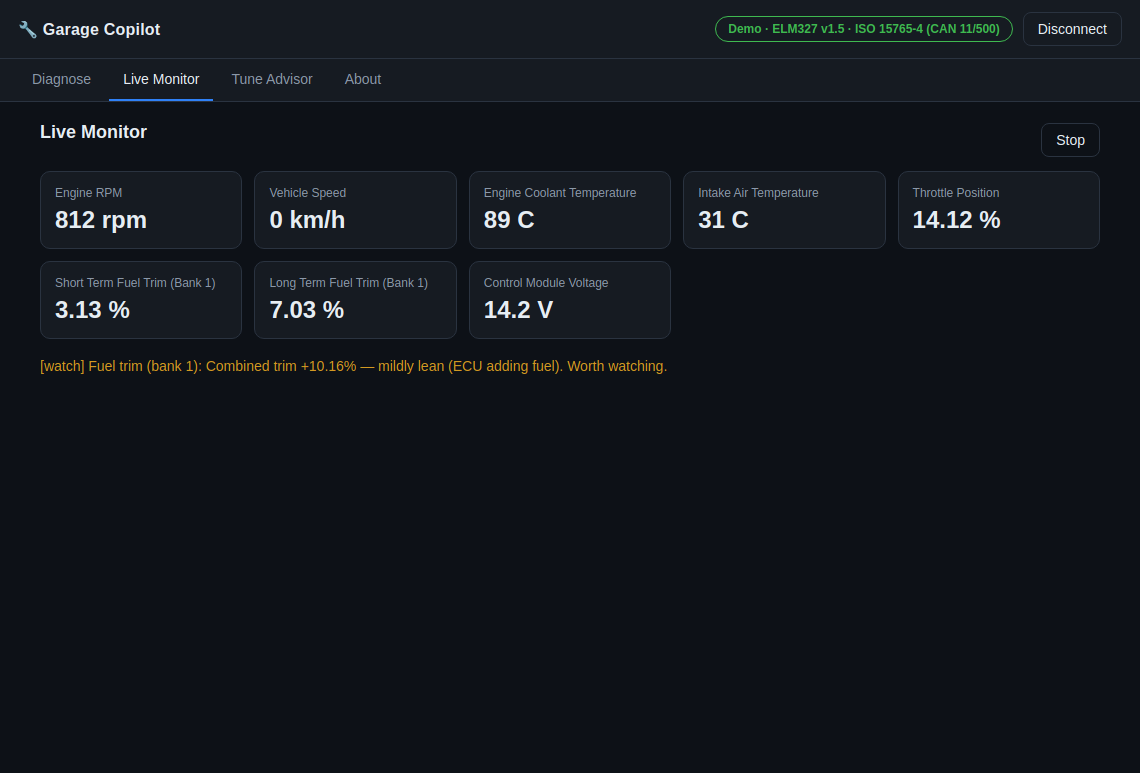
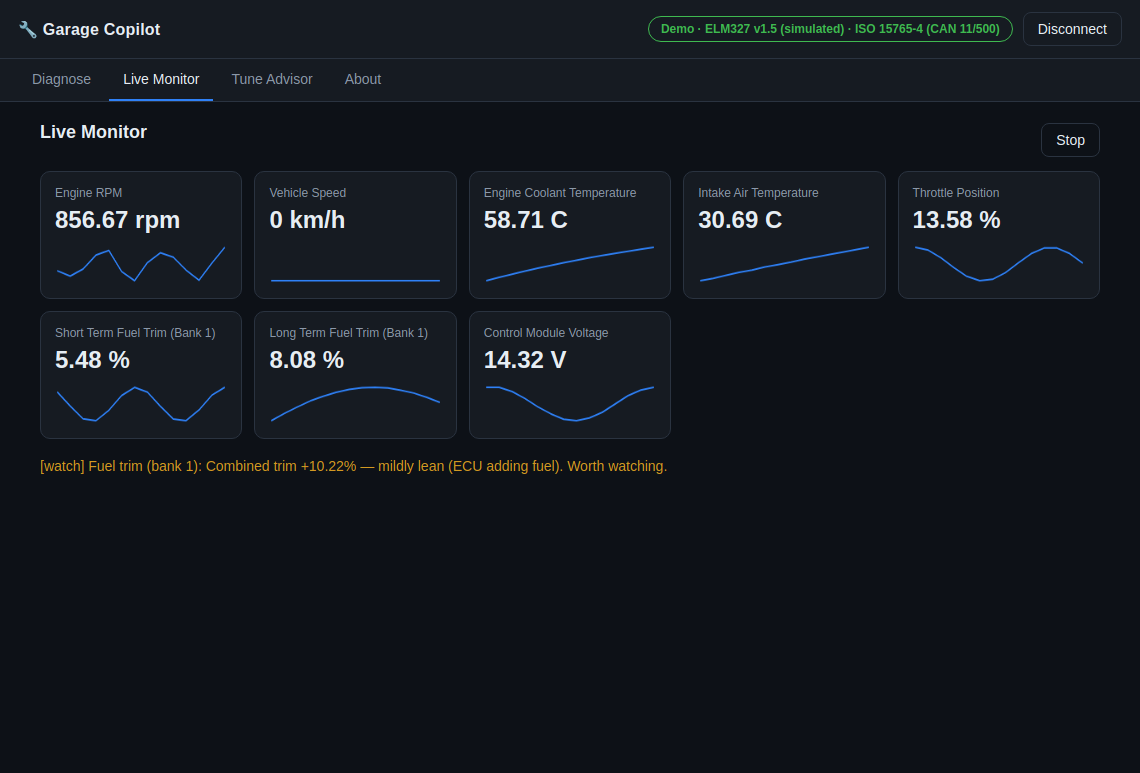
Demo simulator with live sparklines, plus save-report
Engine: add SimulatedObdReader — a time-varying ObdReader (idle RPM wander,
coolant warm-up curve, jittering fuel trims) matching the demo vehicle's DTCs,
readiness, and VIN, with tests. It makes the live monitor demoable with no
hardware and is a handy dev fixture.

Desktop:
- Demo mode now uses the simulator, so the Live Monitor actually moves.
- Add per-parameter canvas sparklines showing recent history.
- Add "Save report (.md)" alongside "Copy report".
- Connection now typed against the ObdReader interface (engine, simulator, or
  Web Serial all flow through the same path).
- Refresh screenshots; update smoke assertions (VIN present; RPM by label).

diff --git a/apps/garage-copilot-desktop/src/renderer/app.ts b/apps/garage-copilot-desktop/src/renderer/app.ts
@@ -9,15 +9,14 @@
 
 import {
   Elm327Client,
-  ReplayTransport,
-  DEMO_VEHICLE,
+  SimulatedObdReader,
   runDiagnosticSession,
   buildReport,
   analyzeTrends,
   assessFinalDriveChange,
   assessInjectorsForTarget,
   assessAddedElectricalLoad,
-  type ObdTransport,
+  type ObdReader,
   type Assessment,
   type TimedSample
 } from "./core.js";
@@ -36,12 +35,14 @@ const show = (el: HTMLElement, visible: boolean): void => {
 };
 
 // ---- connection state -------------------------------------------------------
-type Connection = { client: Elm327Client; label: string; demo: boolean };
+type Connection = { client: ObdReader; label: string; demo: boolean };
 let conn: Connection | null = null;
 let liveTimer: number | null = null;
 let liveSamples: TimedSample[] = [];
 const liveCards = new Map<string, HTMLElement>();
+const liveHistory = new Map<string, number[]>();
 const LIVE_PIDS = ["0C", "0D", "05", "0F", "11", "06", "07", "42"];
+const SPARK_MAX = 60;
 
 // ---- status / connection ----------------------------------------------------
 function setStatus(text: string, state: "off" | "connecting" | "on"): void {
@@ -58,7 +59,7 @@ function setConnectedUi(connected: boolean): void {
   $<HTMLButtonElement>("btn-live-start").disabled = !connected;
 }
 
-async function activate(client: Elm327Client, label: string, demo: boolean): Promise<void> {
+async function activate(client: ObdReader, label: string, demo: boolean): Promise<void> {
   setStatus("Initializing…", "connecting");
   try {
     const id = await client.initialize();
@@ -92,8 +93,8 @@ async function connectSerial(): Promise<void> {
 }
 
 async function connectDemo(): Promise<void> {
-  const transport: ObdTransport = new ReplayTransport(DEMO_VEHICLE);
-  await activate(new Elm327Client(transport), "Demo (replay)", true);
+  // A simulator with time-varying idle data, so the live monitor actually moves.
+  await activate(new SimulatedObdReader(), "Demo (simulated)", true);
 }
 
 async function disconnect(): Promise<void> {
@@ -208,11 +209,29 @@ function renderReport(
   }
   out.appendChild(cav);
 
+  const actions = document.createElement("div");
+  actions.className = "report-actions";
+
   const copy = document.createElement("button");
   copy.className = "ghost";
   copy.textContent = "Copy report";
   copy.addEventListener("click", () => void navigator.clipboard?.writeText(fullText));
-  out.appendChild(copy);
+
+  const save = document.createElement("button");
+  save.className = "ghost";
+  save.textContent = "Save report (.md)";
+  save.addEventListener("click", () => {
+    const blob = new Blob([fullText], { type: "text/markdown" });
+    const url = URL.createObjectURL(blob);
+    const a = document.createElement("a");
+    a.href = url;
+    a.download = "garage-copilot-report.md";
+    a.click();
+    URL.revokeObjectURL(url);
+  });
+
+  actions.append(copy, save);
+  out.appendChild(actions);
 }
 
 function lineClass(line: string): string {
@@ -226,6 +245,7 @@ function startLive(): void {
   if (!conn || liveTimer !== null) return;
   liveSamples = [];
   liveCards.clear();
+  liveHistory.clear();
   $("live-cards").replaceChildren();
   $("live-flags").replaceChildren();
   show($("btn-live-start"), false);
@@ -268,12 +288,45 @@ function updateCard(pid: string, label: string, value: number, unit?: string): v
     l.textContent = label;
     const v = document.createElement("div");
     v.className = "live-value";
-    card.append(l, v);
+    const canvas = document.createElement("canvas");
+    canvas.className = "spark";
+    canvas.width = 300;
+    canvas.height = 48;
+    card.append(l, v, canvas);
     liveCards.set(pid, card);
     $("live-cards").appendChild(card);
   }
-  const v = card.querySelector(".live-value") as HTMLElement;
-  v.textContent = `${value}${unit ? ` ${unit}` : ""}`;
+  (card.querySelector(".live-value") as HTMLElement).textContent = `${value}${unit ? ` ${unit}` : ""}`;
+
+  const hist = liveHistory.get(pid) ?? [];
+  hist.push(value);
+  if (hist.length > SPARK_MAX) hist.shift();
+  liveHistory.set(pid, hist);
+  drawSparkline(card.querySelector(".spark") as HTMLCanvasElement, hist);
+}
+
+function drawSparkline(canvas: HTMLCanvasElement, values: number[]): void {
+  const ctx = canvas.getContext("2d");
+  if (!ctx) return;
+  const w = canvas.width;
+  const h = canvas.height;
+  const pad = 4;
+  ctx.clearRect(0, 0, w, h);
+  if (values.length < 2) return;
+  const min = Math.min(...values);
+  const max = Math.max(...values);
+  const range = max - min || 1;
+  ctx.beginPath();
+  ctx.lineWidth = 2;
+  ctx.strokeStyle = "#2f81f7";
+  ctx.lineJoin = "round";
+  values.forEach((v, i) => {
+    const x = pad + (i / (values.length - 1)) * (w - 2 * pad);
+    const y = h - pad - ((v - min) / range) * (h - 2 * pad);
+    if (i === 0) ctx.moveTo(x, y);
+    else ctx.lineTo(x, y);
+  });
+  ctx.stroke();
 }
 
 function renderFlags(): void {

diff --git a/apps/garage-copilot/src/obd/simulator.ts b/apps/garage-copilot/src/obd/simulator.ts
@@ -1,0 +1,102 @@
+/**
+ * A simulated {@link ObdReader} for demos and development.
+ *
+ * Unlike the replay transport (which returns fixed canned frames to exercise the
+ * real driver), this produces time-varying live data — idle RPM wander, a
+ * coolant warm-up curve, jittering fuel trims — so the live monitor and its
+ * trend analysis have something realistic to chew on with no hardware. The DTCs,
+ * readiness, and VIN match the canned demo vehicle so a scan tells a consistent
+ * story. Values are illustrative only.
+ */
+
+import type { ObdIdentity, ObdReader } from "./reader.js";
+import type { DecodedPid } from "./pid-formulas.js";
+import { PID_FORMULAS } from "./pid-formulas.js";
+import { decodeMonitorStatus, type MonitorStatus } from "./dtc-decode.js";
+
+const round2 = (n: number): number => Math.round(n * 100) / 100;
+
+export type SimulatorOptions = {
+  /** Clock injection (default Date.now) for deterministic tests. */
+  now?: () => number;
+};
+
+export class SimulatedObdReader implements ObdReader {
+  private readonly now: () => number;
+  private readonly startedAt: number;
+
+  constructor(options: SimulatorOptions = {}) {
+    this.now = options.now ?? (() => Date.now());
+    this.startedAt = this.now();
+  }
+
+  /** Seconds since the session opened — drives the warm-up/wander curves. */
+  private elapsed(): number {
+    return (this.now() - this.startedAt) / 1000;
+  }
+
+  async initialize(): Promise<ObdIdentity> {
+    return { description: "ELM327 v1.5 (simulated)", protocol: "ISO 15765-4 (CAN 11/500)" };
+  }
+
+  async readMonitorStatus(): Promise<MonitorStatus> {
+    // Same bytes as the canned demo: MIL on, 2 DTCs, catalyst not ready.
+    return decodeMonitorStatus([0x82, 0x07, 0x21, 0x01]);
+  }
+
+  async readStoredDtcs(): Promise<string[]> {
+    return ["P0301", "P0420"];
+  }
+  async readPendingDtcs(): Promise<string[]> {
+    return [];
+  }
+  async readPermanentDtcs(): Promise<string[]> {
+    return [];
+  }
+  async readVin(): Promise<string | undefined> {
+    return "1HGBH41JXMN109186";
+  }
+
+  async readVoltage(): Promise<number | undefined> {
+    return round2(14.2 + 0.12 * Math.sin(this.elapsed() * 0.5));
+  }
+
+  async readLivePid(pid: string): Promise<DecodedPid | undefined> {
+    const code = pid.trim().toUpperCase();
+    const def = PID_FORMULAS[code];
+    if (!def) return undefined;
+    const value = this.value(code);
+    if (value === undefined) return undefined;
+    return { pid: def.pid, label: def.label, value: round2(value), unit: def.unit };
+  }
+
+  /** Plausible idle behaviour per PID. */
+  private value(code: string): number | undefined {
+    const t = this.elapsed();
+    const wobble = (hz: number) => Math.sin(t * hz);
+    switch (code) {
+      case "0C": // RPM — idle wander around ~815
+        return 815 + 35 * wobble(1.3) + 8 * wobble(4.1);
+      case "0D": // Vehicle speed — parked
+        return 0;
+      case "05": // Coolant — warm-up curve toward ~92 C
+        return Math.min(92, 40 + 52 * (1 - Math.exp(-t / 35))) + 0.6 * wobble(0.2);
+      case "0F": // Intake air temp — slowly rising with bay heat
+        return 30 + 3 * (1 - Math.exp(-t / 60));
+      case "11": // Throttle — closed at idle with tiny jitter
+        return 13.5 + 1.2 * wobble(0.6);
+      case "06": // STFT — small correction, jittering
+        return 2 + 3.5 * wobble(0.9);
+      case "07": // LTFT — leaning a touch (matches the demo's "watch" flag)
+        return 7 + 1.5 * wobble(0.15);
+      case "42": // Module voltage
+        return 14.2 + 0.12 * wobble(0.5);
+      default:
+        return undefined;
+    }
+  }
+
+  async close(): Promise<void> {
+    /* nothing to release */
+  }
+}

diff --git a/apps/garage-copilot/src/obd/simulator.test.ts b/apps/garage-copilot/src/obd/simulator.test.ts
@@ -1,0 +1,42 @@
+import { describe, it, expect } from "vitest";
+import { SimulatedObdReader } from "./simulator.js";
+import { runDiagnosticSession } from "../diagnose/session.js";
+
+describe("SimulatedObdReader", () => {
+  it("reports the demo vehicle's codes, VIN, and readiness", async () => {
+    const reader = new SimulatedObdReader();
+    expect(await reader.readStoredDtcs()).toEqual(["P0301", "P0420"]);
+    expect(await reader.readVin()).toBe("1HGBH41JXMN109186");
+    const status = await reader.readMonitorStatus();
+    expect(status.milOn).toBe(true);
+    expect(status.dtcCount).toBe(2);
+    expect(status.monitors.find(m => m.name === "Catalyst")?.state).toBe("not-ready");
+  });
+
+  it("produces plausible, varying live values over time", async () => {
+    let clock = 0;
+    const reader = new SimulatedObdReader({ now: () => clock });
+
+    clock = 0;
+    const coolantCold = (await reader.readLivePid("05"))!.value as number;
+    clock = 120_000; // two minutes later
+    const coolantWarm = (await reader.readLivePid("05"))!.value as number;
+    expect(coolantWarm).toBeGreaterThan(coolantCold); // warmed up
+    expect(coolantWarm).toBeLessThanOrEqual(93);
+
+    const rpm = (await reader.readLivePid("0C"))!.value as number;
+    expect(rpm).toBeGreaterThan(700);
+    expect(rpm).toBeLessThan(900);
+
+    expect(await reader.readLivePid("ZZ")).toBeUndefined();
+  });
+
+  it("drives a full diagnostic session", async () => {
+    const snap = await runDiagnosticSession(new SimulatedObdReader());
+    expect(snap.milOn).toBe(true);
+    expect(snap.storedDtcs).toEqual(["P0301", "P0420"]);
+    expect(snap.vin).toBe("1HGBH41JXMN109186");
+    expect(snap.livePids.length).toBeGreaterThan(0);
+    expect(snap.warnings).toEqual([]);
+  });
+});

diff --git a/apps/garage-copilot-desktop/src/renderer/core.ts b/apps/garage-copilot-desktop/src/renderer/core.ts
@@ -7,6 +7,7 @@
 
 export { Elm327Client } from "../../../garage-copilot/dist/obd/elm327.js";
 export { ReplayTransport } from "../../../garage-copilot/dist/obd/replay-transport.js";
+export { SimulatedObdReader } from "../../../garage-copilot/dist/obd/simulator.js";
 export { DEMO_VEHICLE, DEMO_LIVE_PIDS } from "../../../garage-copilot/dist/obd/recordings.js";
 export { runDiagnosticSession } from "../../../garage-copilot/dist/diagnose/session.js";
 export { buildReport } from "../../../garage-copilot/dist/diagnose/report.js";

diff --git a/apps/garage-copilot/src/index.ts b/apps/garage-copilot/src/index.ts
@@ -13,6 +13,7 @@ export { Elm327Client, ObdError, type Elm327Options } from "./obd/elm327.js";
 export { ReplayTransport, normalizeCommand, type ReplayScript } from "./obd/replay-transport.js";
 export { openSerialTransport, type SerialOptions } from "./obd/serial-transport.js";
 export { DEMO_VEHICLE, DEMO_LIVE_PIDS } from "./obd/recordings.js";
+export { SimulatedObdReader, type SimulatorOptions } from "./obd/simulator.js";
 export {
   PID_FORMULAS,
   decodePidData,

diff --git a/apps/garage-copilot-desktop/src/renderer/styles.css b/apps/garage-copilot-desktop/src/renderer/styles.css
@@ -200,6 +200,10 @@ h3 {
   cursor: pointer;
   color: var(--muted);
 }
+.report-actions {
+  display: flex;
+  gap: 10px;
+}
 
 /* Live monitor */
 .cards {
@@ -223,6 +227,12 @@ h3 {
   font-size: 24px;
   font-weight: 700;
   font-variant-numeric: tabular-nums;
+}
+.spark {
+  display: block;
+  width: 100%;
+  height: 40px;
+  margin-top: 10px;
 }
 .flags {
   display: flex;
